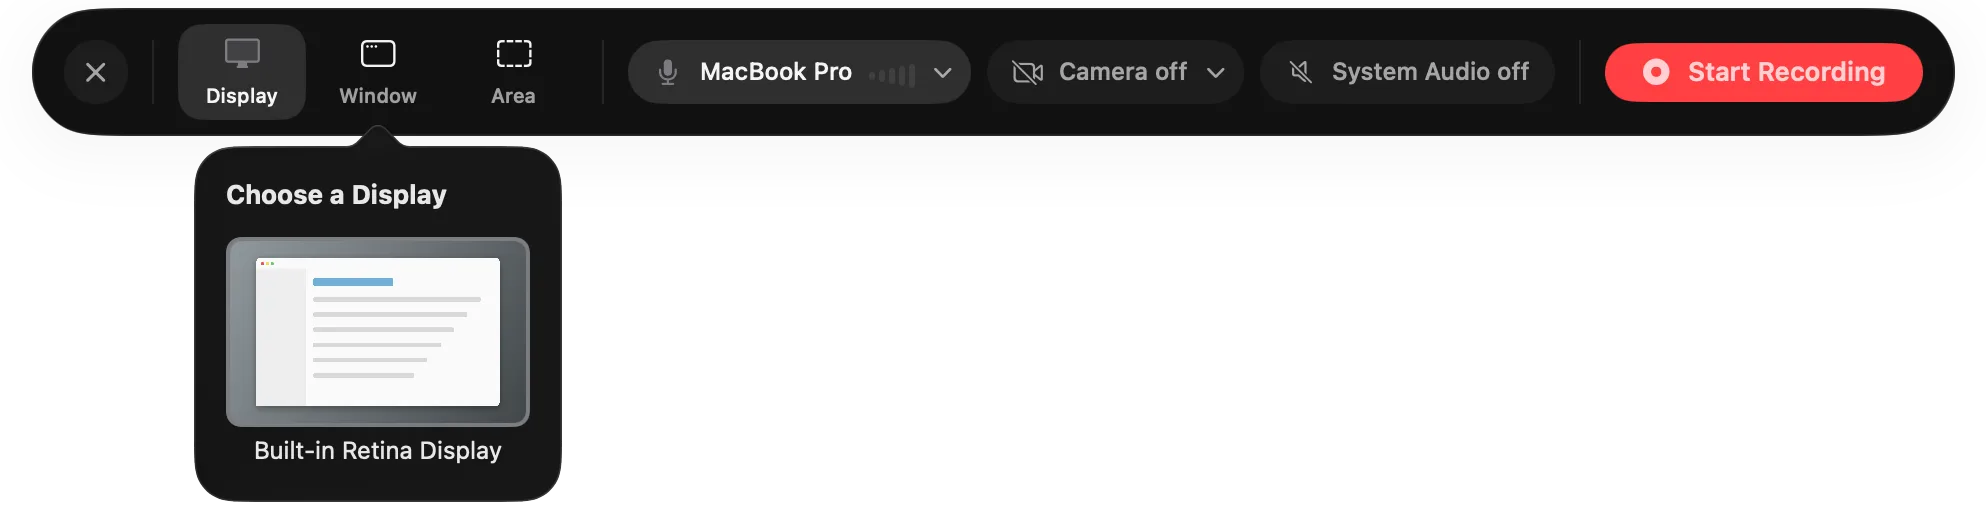
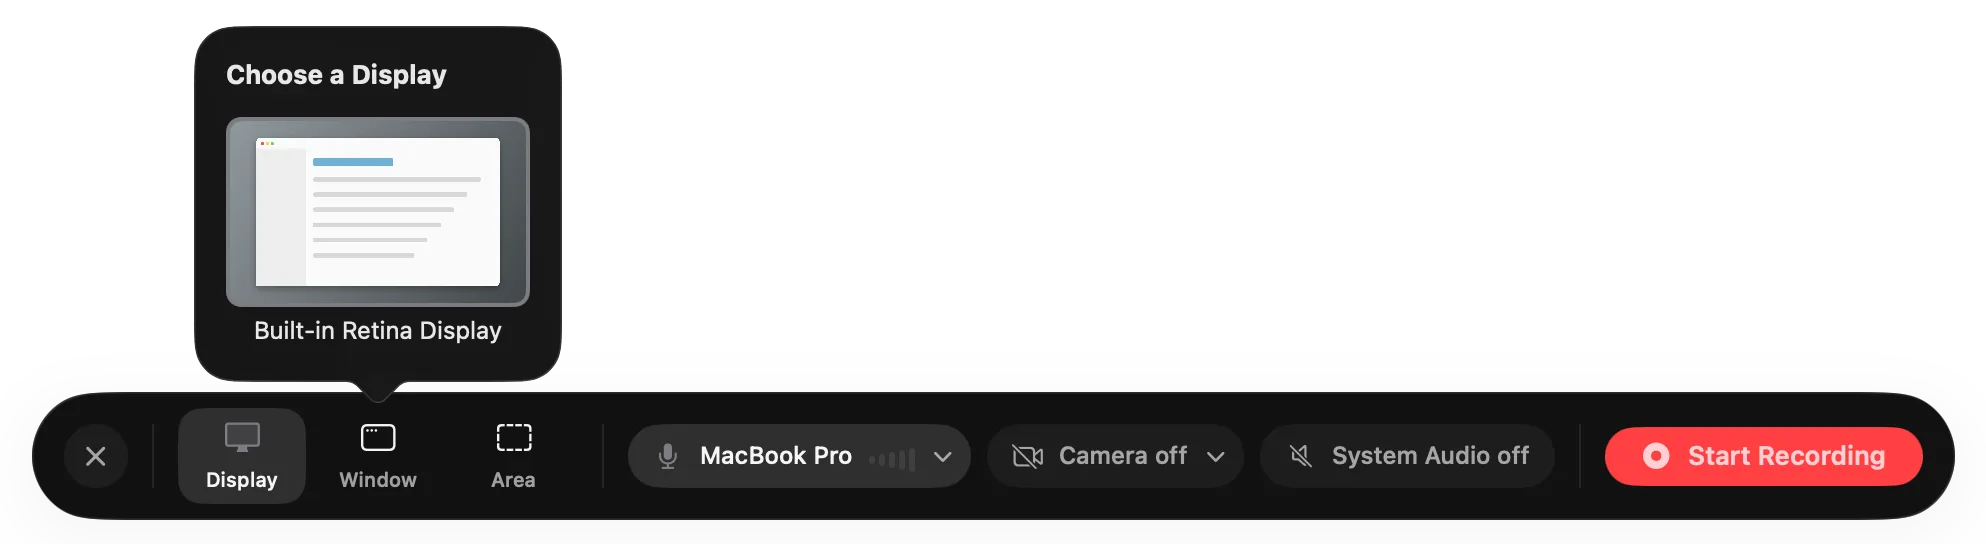
Open the Record Panel at the bottom of the screen, where the recording controls appear

diff --git a/Sources/Showreel/Recording/RecordPanel.swift b/Sources/Showreel/Recording/RecordPanel.swift
@@ -4,7 +4,8 @@ import SwiftUI
 import ShowreelKit
 
 /// The floating Record Panel (S-002): source, Mic, Camera, System Audio,
-/// and Start Recording, on one glass bar near the top of the active display.
+/// and Start Recording, on one glass bar at the bottom center of the active
+/// display, where the Recording Controls take its place once recording starts.
 final class RecordPanel {
     static let shared = RecordPanel()
     private(set) var panel: FloatingPanel?
@@ -14,18 +15,19 @@ final class RecordPanel {
             var options = FloatingPanel.Options()
             options.movable = true
             options.onCancel = { RecordController.shared.closePanel() }
-            panel = FloatingPanel(size: CGSize(width: Layout.recordPanel.width, height: Layout.recordPanel.height + Space.section + Space.xl),
+            panel = FloatingPanel(size: CGSize(width: Layout.recordPanel.width, height: Layout.recordPanel.height + Space.section + Space.xl + Space.md),
                                   options: options, content: RecordPanelView())
         }
         guard let panel else { return }
         // Fit the bar's natural width, so no label is cut off.
         if let fitting = panel.contentView?.fittingSize, fitting.width > 0 {
-            panel.setContentSize(CGSize(width: fitting.width, height: Layout.recordPanel.height + Space.section + Space.xl))
+            panel.setContentSize(CGSize(width: fitting.width, height: Layout.recordPanel.height + Space.section + Space.xl + Space.md))
         }
         let screen = NSScreen.containing(cgRect: CGRect(origin: NSEvent.mouseLocation, size: .zero)) ?? NSScreen.main
         if let visible = screen?.visibleFrame {
+            // The bar's bottom edge sits where the Recording Controls' does.
             panel.setFrameOrigin(NSPoint(x: visible.midX - panel.frame.width / 2,
-                                         y: visible.maxY - panel.frame.height - Space.xl))
+                                         y: visible.minY + Layout.controlsInset - Space.md))
         }
         panel.present(activate: activate)
     }
@@ -40,6 +42,17 @@ struct RecordPanelView: View {
 
     var body: some View {
         VStack(spacing: Space.sm) {
+            Spacer(minLength: 0)
+            if let message = problemText {
+                Label(message, systemImage: "exclamationmark.triangle.fill")
+                    .font(.callout)
+                    .foregroundStyle(.primary)
+                    .symbolRenderingMode(.multicolor)
+                    .padding(.horizontal, Space.lg)
+                    .padding(.vertical, Space.sm)
+                    .glassEffect(.regular, in: Capsule())
+                    .transition(.opacity)
+            }
             GlassEffectContainer(spacing: Space.sm) {
                 HStack(spacing: Space.md) {
                     CloseButton { recorder.closePanel() }
@@ -59,19 +72,8 @@ struct RecordPanelView: View {
                 .fixedSize(horizontal: true, vertical: false)
                 .glassEffect(.regular, in: Capsule())
             }
-            if let message = problemText {
-                Label(message, systemImage: "exclamationmark.triangle.fill")
-                    .font(.callout)
-                    .foregroundStyle(.primary)
-                    .symbolRenderingMode(.multicolor)
-                    .padding(.horizontal, Space.lg)
-                    .padding(.vertical, Space.sm)
-                    .glassEffect(.regular, in: Capsule())
-                    .transition(.opacity)
-            }
-            Spacer(minLength: 0)
         }
-        .padding(.top, Space.xs)
+        .padding(.bottom, Space.md)
         .padding(.horizontal, Space.lg)
         .fixedSize(horizontal: true, vertical: false)
         .animation(Motion.resolved(Motion.ui), value: problemText)
@@ -158,7 +160,7 @@ struct SourceControl: View {
                 .keyboardShortcut(KeyEquivalent(Character("\(index + 1)")), modifiers: .command)
             }
         }
-        .popover(isPresented: $recorder.showingSourcePicker, arrowEdge: .bottom) {
+        .popover(isPresented: $recorder.showingSourcePicker, arrowEdge: .top) {
             SourcePicker(kind: recorder.sourceKind) { picking = false }
         }
     }

diff --git a/site/index.html b/site/index.html
@@ -138,7 +138,7 @@
             <li class="step" data-step="record">
               <h3>Record</h3>
               <p>Pick a display, a window, or an area. Turn the mic, camera, and system audio on or off, then start from the menu bar or a global shortcut. Your face sits in a round bubble you can drag anywhere while you record.</p>
-              <img class="step-shot" src="assets/shots/source-picker-dark.webp" loading="lazy" width="1986" height="528" alt="The record bar with Display, Window, and Area tiles, mic, camera, and system audio chips, and the display picker open.">
+              <img class="step-shot" src="assets/shots/source-picker-dark.webp" loading="lazy" width="1986" height="544" alt="The record bar with Display, Window, and Area tiles, mic, camera, and system audio chips, and the display picker open.">
             </li>
             <li class="step" data-step="zoom">
               <h3>Auto-zoom</h3>
@@ -175,8 +175,8 @@
           <div class="tour-visual" aria-hidden="true">
             <div class="map ticks">
               <div class="tv" data-for="record" data-kind="product">
-                <img src="assets/shots/source-picker-dark.webp" loading="lazy" alt="" width="1986" height="528">
-                <span class="callout" style="--x: 19%; --y: 36%"><span class="callout-label">Display, Window, or Area</span></span>
+                <img src="assets/shots/source-picker-dark.webp" loading="lazy" alt="" width="1986" height="544">
+                <span class="callout" style="--x: 45%; --y: 64%"><span class="callout-label">Live mic level</span></span>
               </div>
               <div class="tv" data-for="zoom" data-kind="product">
                 <img src="assets/shots/editor-zoomed-dark.webp" loading="lazy" alt="" width="1600" height="1048">

diff --git a/docs/DESIGN.md b/docs/DESIGN.md
@@ -56,8 +56,9 @@ excludes the app's own windows. Our chrome never shows up in a recording.
 ## Record Panel (S-002 to S-006)
 
 A horizontal glass capsule 64 pt tall, laid out like the screenshot toolbar
-(⇧⌘5), centered near the top of the active display, which you can drag by
-its background. One `GlassEffectContainer`:
+(⇧⌘5), at the bottom center of the active display with its bottom edge
+`Layout.controlsInset` above the Dock, where the Recording Controls appear
+once recording starts. You can drag it by its background. One `GlassEffectContainer`:
 
 ```text
 ( × | [▭ Display] [▢ Window] [⬚ Area] | (🎙 MacBook Pro ▮▮▯ ⌄) (📷 Camera off ⌄) (🔇 System Audio off) | (● Start Recording) )
@@ -78,8 +79,8 @@ its background. One `GlassEffectContainer`:
   symbol.
 - Start Recording is the only prominent control, large, tinted `.red` (red
   carries the meaning "record"). It says "Start Recording", not just a dot.
-- Problems (no access, device lost) show inline under the bar in a second
-  glass row. They are never alerts.
+- Problems (no access, device lost) show inline above the bar in a second
+  glass row. The source picker popover opens upward. They are never alerts.
 
 ## Countdown and Recording Controls (S-007)
 
